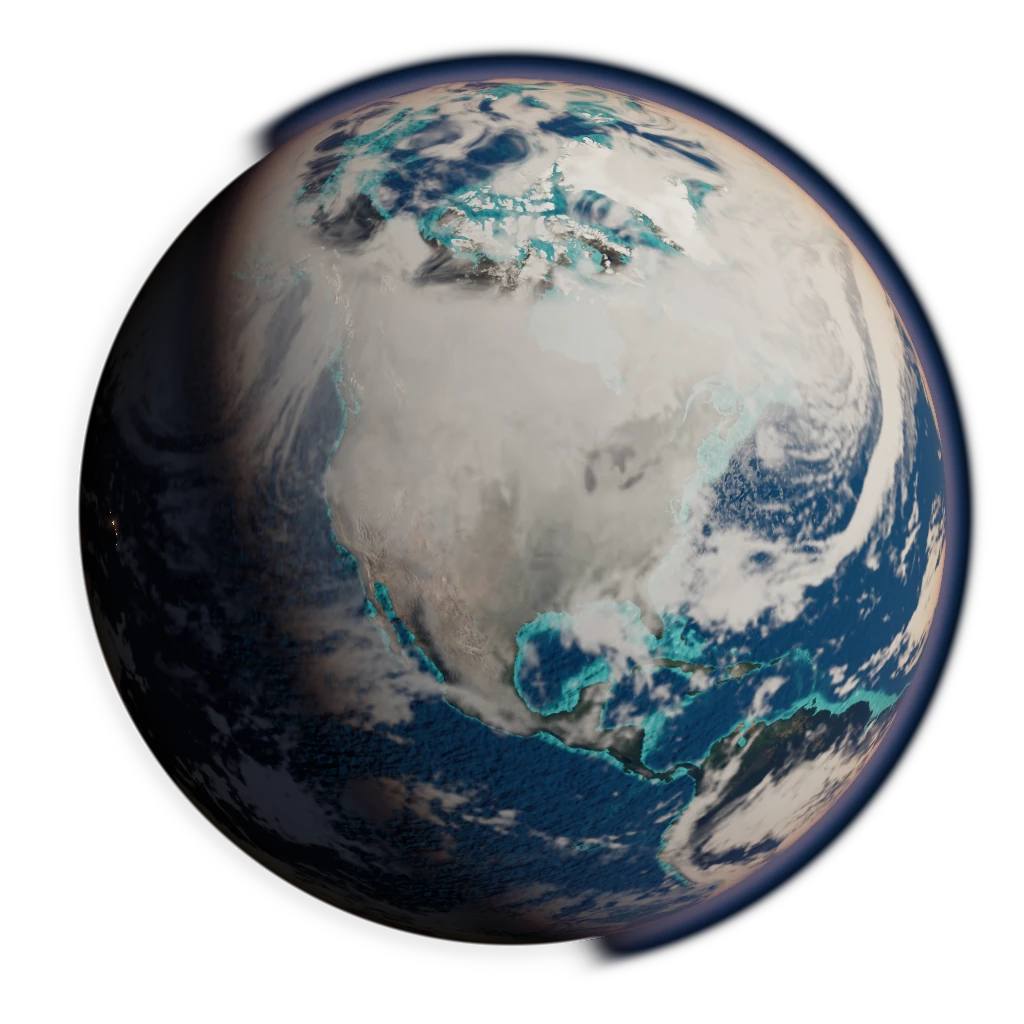
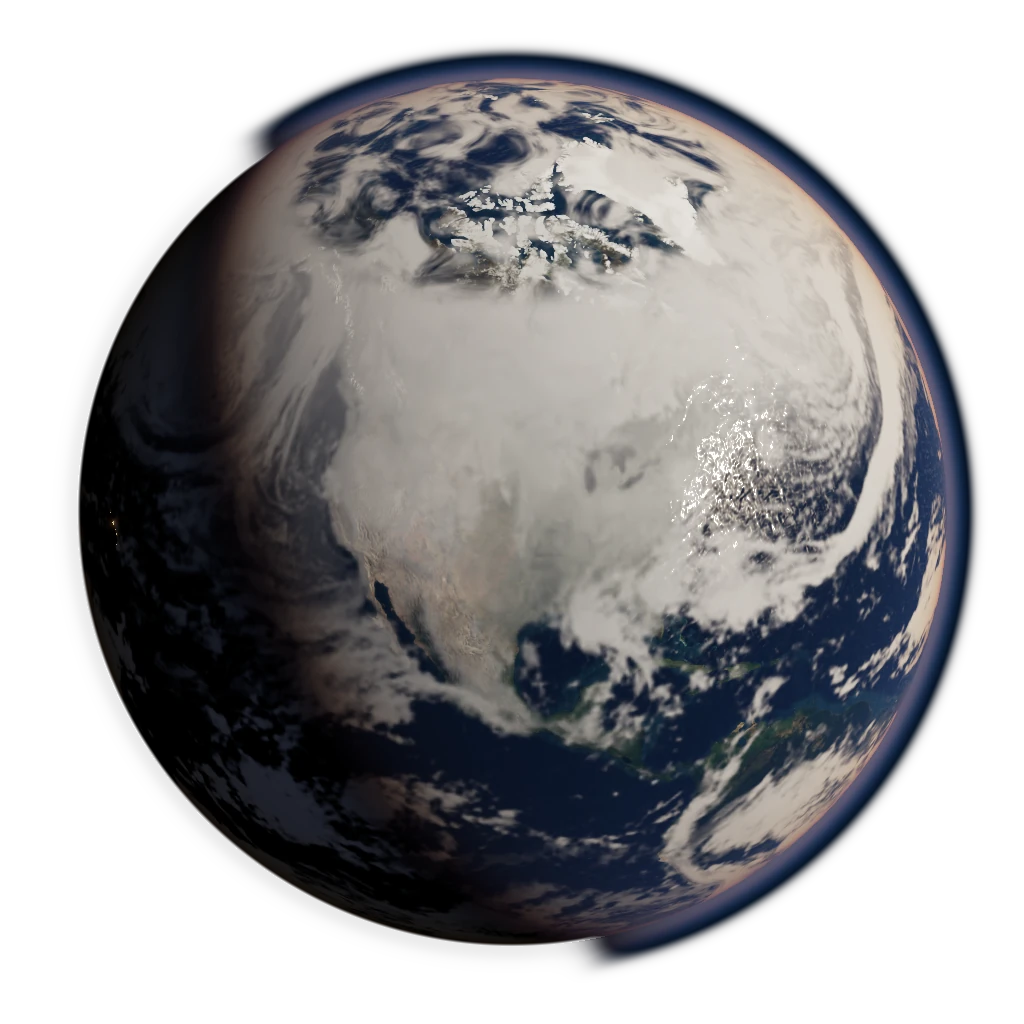
Reflect sky and sunlight from the ocean without a bright shoreline rim

diff --git a/src/earth/surface.ts b/src/earth/surface.ts
@@ -1,3 +1,4 @@
+import type { EarthAtmosphere } from './atmosphere'
 import { oceanGLSL } from './ocean'
 import { Geodetic } from '@takram/three-geospatial'
 import { nightLightingGLSL } from './night-lighting'
@@ -22,9 +23,12 @@ export function createEllipsoid() {
   return geometry
 }
 
-export function createSurface() {
+export function createSurface(atmosphere: EarthAtmosphere) {
   return new ShaderMaterial({
+    defines: Object.fromEntries(atmosphere.defines),
     uniforms: {
+      ...Object.fromEntries([...atmosphere.uniforms].filter(([key]) =>
+        key === 'ATMOSPHERE' || key.endsWith('_texture') || key.endsWith('_TO_LUMINANCE'))),
       day: { value: null }, night: { value: null }, relief: { value: null },
       dayCube: { value: null }, cubeMix: { value: 0 },
       bathymetry: { value: null }, waterNormal: { value: null }, oceanSeconds: { value: 0 },
@@ -42,9 +46,9 @@ export function createSurface() {
       uniform float cubeMix;
       uniform vec3 sunDirection;
       varying vec3 surfacePosition;
-      ${oceanGLSL}
       ${cityTwilightGLSL}
       ${nightLightingGLSL}
+      ${oceanGLSL}
       void main() {
         // Geodetic normal = normalized position divided by squared ellipsoid radii.
         vec3 normal = normalize(surfacePosition * vec3(1.0, 1.0, 1.0067394967));
@@ -68,26 +72,11 @@ export function createSurface() {
         // Preserve bright sea ice in the satellite imagery. The ocean mask
         // supplies fractional coastal coverage and the DEM supplies depth.
         float openWater = material.b * (1.0 - smoothstep(0.16, 0.48, min(color.r,min(color.g,color.b))));
-        vec3 waterN = normal;
-        if (openWater > 0.001) {
-          float encoded = textureGrad(bathymetry, geoUV, uvDx, uvDy).r;
-          float depthMetres = 11000.0 * encoded * encoded;
-          vec3 waterColor = mix(vec3(0.055,0.37,0.40), vec3(0.009,0.055,0.112), 1.0-exp(-depthMetres/650.0));
-          color = mix(color, waterColor, 0.83*openWater);
-          waterN = waterSurface(surfacePosition / 6378137.0, normal);
-          terrainNormal = normalize(mix(terrainNormal, waterN, openWater));
-        }
         float solarElevation = dot(normal, sunDirection);
         float diffuse = max(0.0, dot(terrainNormal, sunDirection));
         vec3 radiance = color * (0.016 + 1.5 * diffuse);
 
         vec3 view = normalize(cameraPosition - surfacePosition);
-        vec3 halfway = normalize(sunDirection + view);
-        float fresnel = 0.022 + 0.978 * pow(1.0 - max(0.0, dot(view, halfway)), 5.0);
-        float glint = pow(max(0.0, dot(waterN, halfway)), 95.0) * fresnel;
-        radiance += vec3(1.0, 0.87, 0.68) * glint * openWater * 9.0 *
-          smoothstep(0.0, 0.08, solarElevation);
-
         // Fixed geographic footprints across base/refined night maps. Blend the
         // two coarse levels to soften cities into the surrounding terrain.
         float urbanMip = log2(float(textureSize(night, 0).x) / 512.0);
@@ -110,6 +99,12 @@ export function createSurface() {
         float groundGlow = spill * (0.30 + pow(groundValue, 0.67))
           * nightRelief * (1.0 - material.b);
         radiance += darkness * groundGlow * vec3(1.35, 0.64, 0.22);
+        if (openWater > 0.001) {
+          float encoded = textureGrad(bathymetry, geoUV, uvDx, uvDy).r;
+          vec3 wave = waterSurface(surfacePosition / 6378137.0, normal);
+          vec3 waterLight = lightOcean(normal, wave, view, sunDirection, 11000.0 * encoded * encoded);
+          radiance = mix(radiance, waterLight, openWater);
+        }
         gl_FragColor = vec4(radiance, 1.0);
       }`
   })

diff --git a/src/earth/ocean.ts b/src/earth/ocean.ts
@@ -1,5 +1,17 @@
+import { common, definitions, runtime } from '@takram/three-atmosphere/shaders/bruneton'
+import { airColorGLSL } from './atmosphere'
+
 // The engine's two scrolling normal layers, reoriented on the three axes.
 export const oceanGLSL = `
+  precision highp sampler3D;
+  ${definitions}
+  uniform AtmosphereParameters ATMOSPHERE;
+  uniform vec3 SUN_SPECTRAL_RADIANCE_TO_LUMINANCE, SKY_SPECTRAL_RADIANCE_TO_LUMINANCE;
+  uniform sampler2D transmittance_texture, irradiance_texture;
+  uniform sampler3D scattering_texture, single_mie_scattering_texture;
+  ${common}
+  ${runtime}
+  ${airColorGLSL}
   uniform sampler2D waterNormal, bathymetry;
   uniform float oceanSeconds;
   vec3 reorientWave(vec3 base, vec3 wave) {
@@ -18,6 +30,45 @@ export const oceanGLSL = `
   vec3 waterSurface(vec3 p, vec3 n) {
     vec3 first = waveLayer(p*2.8, n, oceanSeconds*0.022*vec2(1.0,0.8));
     vec3 waves = waveLayer(p*6.1, first, oceanSeconds*0.031*vec2(-0.8,-0.3));
-    return normalize(mix(n, waves, 0.46));
+    return normalize(mix(n, waves, 0.35));
+  }
+
+  // Port of SphereOcean.applyLighting. Adjust normal strength in the local
+  // tangent plane, since the vertical axis changes around an ellipsoid.
+  vec3 lightOcean(vec3 up, vec3 n, vec3 view, vec3 sun, float depthMetres) {
+    vec3 tangentNormal = n - up * dot(n, up);
+    vec3 fresnelNormal = normalize(up * dot(n, up) + 1.35 * tangentNormal);
+    float viewCos = clamp(dot(view, fresnelNormal), 0.0, 1.0);
+    float reflectionWeight = 0.4 * mix(0.6, 1.0, pow(1.0 - viewCos, 6.0));
+    vec3 reflected = reflect(-view, n);
+    // A sub-horizon wave facet sees the local horizon. Sample the LUT at
+    // sea level in its spherical coordinates (lengths in kilometres).
+    vec3 skyRay = normalize(reflected + up * max(0.0, 0.002 - dot(reflected, up)));
+    float radius = ATMOSPHERE.bottom_radius + 0.002;
+    vec3 origin = up * radius;
+    vec3 transmission;
+    vec3 sky = gradeAir(GetSkyRadiance(origin, skyRay, 0.0, sun, transmission), dot(view, sun));
+    float dusk = 1.0 - smoothstep(-0.20, 0.04, dot(up, sun));
+    if (dusk > 0.0 && dot(up, nightMoonDirection) > -0.12) {
+      sky += 0.036 * dusk * gradeAir(GetSkyRadiance(origin, skyRay, 0.0, nightMoonDirection, transmission), 1.0);
+    }
+
+    vec3 sunlight = GetTransmittanceToSun(ATMOSPHERE, transmittance_texture, radius, dot(up, sun));
+    float alignment = max(dot(reflected, sun), 0.0);
+    // Keep the solar edge independent of neighboring land fragments.
+    float disk = smoothstep(0.994, 0.996, alignment);
+    // Match the reflected solar disk to the exposure of the Earth compositor.
+    vec3 environment = sky + 0.08 * sunlight * (1000.0 * disk + 100.0 * pow(alignment, 200.0));
+    vec3 halfway = normalize(sun + view);
+    float incidence = max(dot(n, sun), 0.0);
+    float specularWeight = mix(0.6, 1.0, pow(1.0 - clamp(dot(view, halfway), 0.0, 1.0), 5.0));
+    vec3 specular = sunlight * incidence * pow(max(dot(n, halfway), 0.0), 72.0) * specularWeight;
+    vec3 surfaceLight = reflectionWeight * (environment + sunlight * 15.0 * pow(alignment, 1500.0)) + specular;
+
+    // Bathymetry supplies the engine's shallow/deep blend in Earth metres.
+    float deep = 1.0 - exp(-depthMetres / 650.0);
+    vec3 bodyColor = mix(vec3(0.011, 0.047, 0.057), vec3(0.001, 0.005, 0.008), deep);
+    vec3 bodyLight = bodyColor * (0.012 + sunlight * incidence);
+    return surfaceLight + bodyLight;
   }
 `

diff --git a/src/earth/atmosphere.ts b/src/earth/atmosphere.ts
@@ -2,6 +2,22 @@ import { moonDirectionGLSL } from './night-lighting'
 import { AerialPerspectiveEffect } from '@takram/three-atmosphere'
 import { Uniform, type Camera } from 'three'
 
+export const airColorGLSL = `
+// The wide limb makes the LUT's violet band conspicuous. Adjust only
+// scattered sunlight, retaining its linear luminance and the warm sunset.
+vec3 gradeAir(vec3 light, float alignment) {
+  light = max(light, vec3(0.0));
+  float peak = max(0.00001, max(light.r, light.b));
+  float violet = smoothstep(0.025, 0.35, (light.b - light.g) / peak)
+    * smoothstep(0.65, 0.98, light.b / peak);
+  vec3 blue = vec3(min(light.r, 0.54 * light.b + 0.19 * light.g),
+    max(light.g, 0.46 * light.b + 0.25 * light.r), light.b);
+  const vec3 luma = vec3(0.2126, 0.7152, 0.0722);
+  blue *= dot(light, luma) / max(dot(blue, luma), 0.000001);
+  return mix(light, blue, violet * mix(0.70, 1.0, smoothstep(0.0, 0.85, alignment)));
+}
+`
+
 const wideScale = 10
 
 export class EarthAtmosphere extends AerialPerspectiveEffect {
@@ -38,19 +54,7 @@ export class EarthAtmosphere extends AerialPerspectiveEffect {
     this.setFragmentShader(`
       ${moonDirectionGLSL}
       uniform float limbScale;
-      // The wide limb makes the LUT's violet band conspicuous. Adjust only
-      // scattered sunlight, retaining its linear luminance and the warm sunset.
-      vec3 gradeAir(vec3 light, float alignment) {
-        light = max(light, vec3(0.0));
-        float peak = max(0.00001, max(light.r, light.b));
-        float violet = smoothstep(0.025, 0.35, (light.b - light.g) / peak)
-          * smoothstep(0.65, 0.98, light.b / peak);
-        vec3 blue = vec3(min(light.r, 0.54 * light.b + 0.19 * light.g),
-          max(light.g, 0.46 * light.b + 0.25 * light.r), light.b);
-        const vec3 luma = vec3(0.2126, 0.7152, 0.0722);
-        blue *= dot(light, luma) / max(dot(blue, luma), 0.000001);
-        return mix(light, blue, violet * mix(0.70, 1.0, smoothstep(0.0, 0.85, alignment)));
-      }
+      ${airColorGLSL}
       vec3 scaledSkyOrigin(vec3 origin, vec3 direction, float groundRadius) {
         vec3 tangent = origin - direction * dot(origin, direction);
         float radius = length(tangent);

diff --git a/src/earth/index.ts b/src/earth/index.ts
@@ -48,10 +48,10 @@ export async function createEarth(canvas: HTMLCanvasElement, options: EarthOptio
   const camera = new PerspectiveCamera(35, 1, radius, radius * 8)
   camera.up.copy(northPole)
   const scene = new Scene()
-  const surface = createSurface()
+  const atmosphere = new EarthAtmosphere(camera)
+  const surface = createSurface(atmosphere)
   const globe = new Mesh(createEllipsoid(), surface)
   scene.add(globe)
-  const atmosphere = new EarthAtmosphere(camera)
   const composite = createComposite()
   const composer = new EffectComposer(renderer, { frameBufferType: HalfFloatType })
   composer.addPass(new RenderPass(scene, camera))

diff --git a/README.md b/README.md
@@ -20,7 +20,7 @@ The browser requests a small global day map, city lights, packed relief and ocea
 
 Wide atmosphere exaggerates the apparent altitude above the horizon tenfold using Takram’s scattering tables. An artistic moon stays fixed over the North Pacific. Its light reveals terrain and cloud tops and scatters along the night horizon. A coarse mip of the night map supplies localized city skyglow in the air and clouds. A hue adjustment on scattered light reduces violet at the daylight horizon.
 
-The renderer animates visible globes at up to 30 fps and holds the water and clouds still with reduced motion. A GPU pass backtraces air parcels through a packaged 2016 NOAA wind field and writes cloud density to a shared texture up to eight times per second. The archived wind supplies artistic drift. The ocean uses two scrolling triplanar layers from the original WebGL engine normal map. ETOPO seafloor depth drives the shelf-to-deep-water color gradient. The homepage uses a crescent view. The resume and photo pages center North America for their location pins. Each page has a matching static view while its assets load or when WebGL is unavailable.
+The renderer animates visible globes at up to 30 fps and holds the water and clouds still with reduced motion. A GPU pass backtraces air parcels through a packaged 2016 NOAA wind field and writes cloud density to a shared texture up to eight times per second. The archived wind supplies artistic drift. The ocean uses two scrolling triplanar layers from the original WebGL engine normal map. The ocean reflects the same atmospheric scattering tables used for the sky along its animated wave normals. Fresnel weighting, the reflected solar disk, and a separate specular highlight follow the engine’s spherical ocean shader. ETOPO seafloor depth tints the weaker body-light term. The homepage uses a crescent view. The resume and photo pages center North America for their location pins. Each page has a matching static view while its assets load or when WebGL is unavailable.
 
 [Dataset credits](public/earth/data/credits.txt) · [Atmosphere and coordinate tools](https://github.com/takram-design-engineering/three-geospatial)
 
